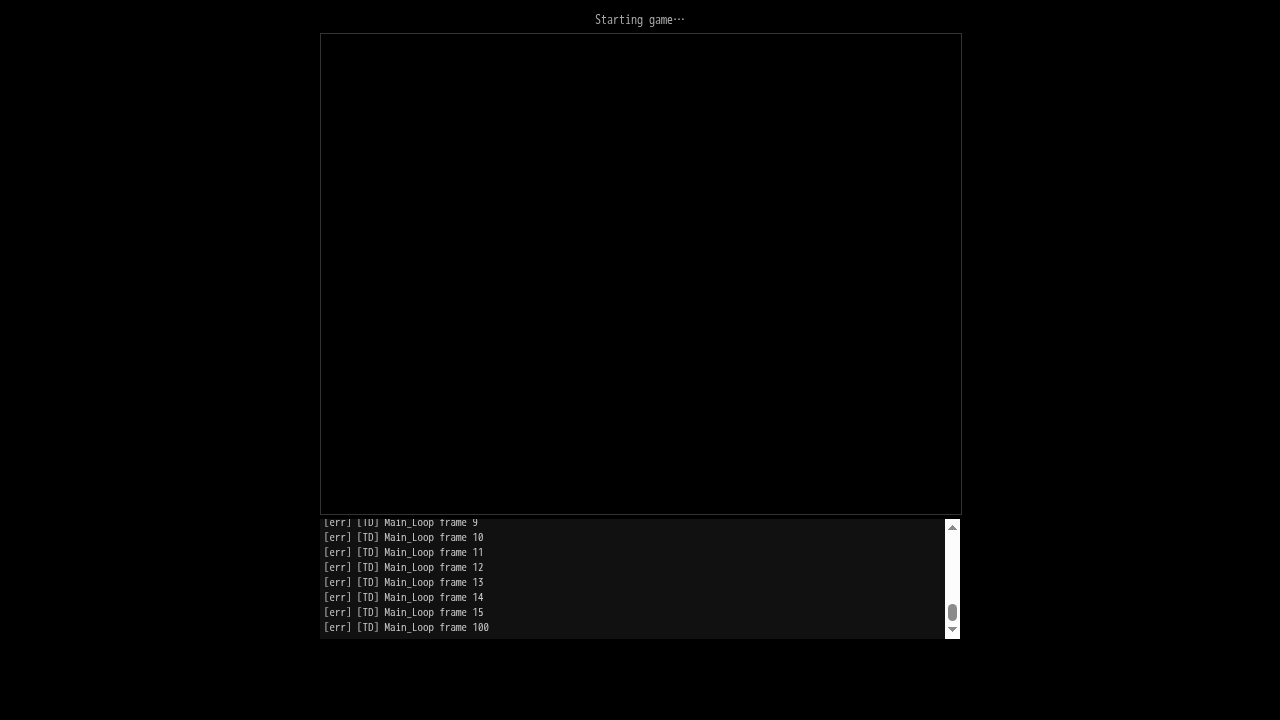
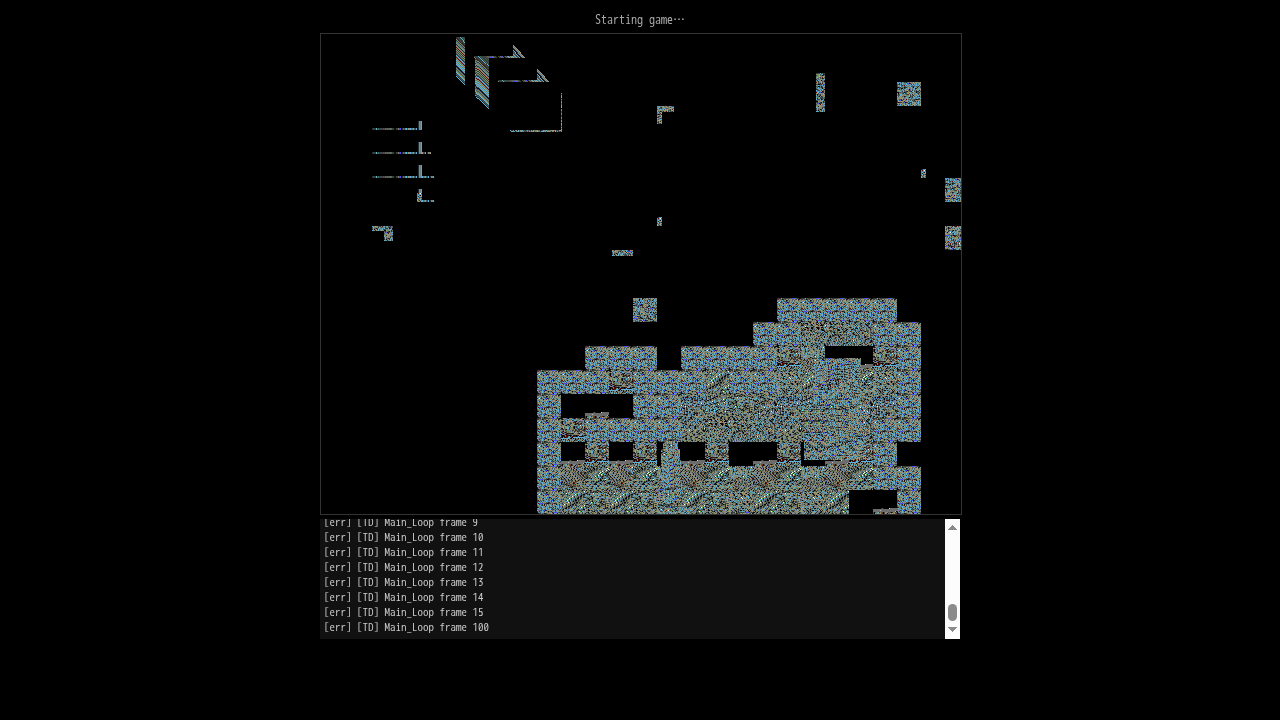
TIM-419: implement Buffer_Draw_Stamp/Clip + fix palette for TD terrain rendering
Three bugs causing black terrain canvas in TD WASM build:

1. Buffer_Draw_Stamp and Buffer_Draw_Stamp_Clip were empty no-op stubs.
   Implemented using IControl_Type struct member access (not hardcoded byte
   offsets) so LP64 / wasm32 struct layout differences are handled by the
   compiler automatically. IControl_Type::Icons is patched to a real pointer
   by Load_Icon_Set; TransFlag is an offset within the icondata block.

2. Clip parameter interpretation: WindowList WINDOWX/WINDOWWIDTH are in
   8-pixel byte units (1 unit = 8 pixels), not raw pixel coordinates.
   Buffer_Draw_Stamp_Clip now converts: clip_x0 = min_x<<3,
   clip_x1 = (min_x+max_x)<<3 before the per-pixel comparison.
   Without this, max_x=80 from WINDOWWIDTH clipped all tiles beyond pixel 80.

3. Set_Palette was not updating TD_SDL_Palette used by Wait_Vert_Blank for
   indexed→ARGB conversion. Extracted Update_SDL_Palette() helper; Set_Palette,
   Fade_Palette_To, and Set_DD_Palette all call it now. Previously the SDL
   palette stayed all-black even after the game loaded its colour table.

Verified: all 5 td-gameplay.spec.ts tests pass; test 4 reports "Canvas has
non-black pixels at frame 100" (previously always black). Screenshot confirms
connected terrain tiles rendering in SCG01EA.

diff --git a/linux/td-win32-stubs.cpp b/linux/td-win32-stubs.cpp
@@ -712,19 +712,8 @@ int IRandom(int minval, int maxval)
 
 extern "C" unsigned char CurrentPalette[768] = {};
 
-void Set_Palette(void *palette)   { if (palette) std::memcpy(CurrentPalette, palette, 768); }
-
-void Fade_Palette_To(void *palette1, unsigned int /*delay*/, void (*callback)())
+static void Update_SDL_Palette(const void *palette)
 {
-    if (palette1) std::memcpy(CurrentPalette, palette1, 768);
-    if (callback) callback();
-}
-
-// TIM-383: update both the engine CurrentPalette and the SDL colour table
-// used by Wait_Vert_Blank for indexed→ARGB conversion.
-extern "C" void Set_DD_Palette(void *palette)
-{
-    Set_Palette(palette);  // keeps CurrentPalette in sync
 #ifndef _MSC_VER
     if (!palette) return;
     const unsigned char* p = static_cast<const unsigned char*>(palette);
@@ -735,6 +724,26 @@ extern "C" void Set_DD_Palette(void *palette)
         TD_SDL_Palette[i].a = 255;
     }
 #endif
+}
+
+void Set_Palette(void *palette)
+{
+    if (!palette) return;
+    std::memcpy(CurrentPalette, palette, 768);
+    Update_SDL_Palette(palette);
+}
+
+void Fade_Palette_To(void *palette1, unsigned int /*delay*/, void (*callback)())
+{
+    if (palette1) { std::memcpy(CurrentPalette, palette1, 768); Update_SDL_Palette(palette1); }
+    if (callback) callback();
+}
+
+// TIM-383: update both the engine CurrentPalette and the SDL colour table
+// used by Wait_Vert_Blank for indexed→ARGB conversion.
+extern "C" void Set_DD_Palette(void *palette)
+{
+    Set_Palette(palette);  // also calls Update_SDL_Palette via Set_Palette
 }
 
 // =========================================================================
@@ -912,8 +921,78 @@ BOOL Linear_Blit_To_Linear(void *thisptr, void *dest,
 
 BOOL Linear_Scale_To_Linear(void *, void *, int, int, int, int, int, int, int, int, BOOL, char *) { return FALSE; }
 long Buffer_To_Page(int, int, int, int, void *, void *) { return 0; }
-void Buffer_Draw_Stamp(void const *, void const *, int, int, int, void const *) {}
-void Buffer_Draw_Stamp_Clip(void const *, void const *, int, int, int, void const *, int, int, int, int) {}
+// TIM-419: terrain tile blitting for TD WASM/Linux.
+// IControl_Type::Icons is a real pointer (patched by Load_Icon_Set); TransFlag is an
+// offset into the icondata block. Using struct member access rather than hardcoded byte
+// offsets so LP64 / wasm32 struct layout is handled by the compiler automatically.
+void Buffer_Draw_Stamp(void const *this_object, void const *icondata, int icon,
+                       int x_pixel, int y_pixel, void const *remap)
+{
+    if (!icondata) return;
+    IControl_Type const *ic = (IControl_Type const *)icondata;
+    int icon_w = ic->Width, icon_h = ic->Height;
+    if (icon_w <= 0 || icon_h <= 0 || !ic->Icons) return;
+    int icon_sz = icon_w * icon_h;
+    unsigned char const *icon_src = ic->Icons + icon * icon_sz;
+    unsigned char tf = ic->TransFlag ?
+        ((unsigned char const *)icondata)[ic->TransFlag + icon] : 0;
+    GraphicViewPortClass *vp = (GraphicViewPortClass*)this_object;
+    if (!vp) return;
+    int vw = vp->Get_Width(), vh = vp->Get_Height();
+    int stride = vw + vp->Get_XAdd();
+    unsigned char *buf = (unsigned char*)vp->Get_Offset();
+    for (int row = 0; row < icon_h; row++) {
+        int py = y_pixel + row;
+        if (py < 0 || py >= vh) continue;
+        for (int col = 0; col < icon_w; col++) {
+            int px = x_pixel + col;
+            if (px < 0 || px >= vw) continue;
+            unsigned char pixel = icon_src[row * icon_w + col];
+            if (remap) pixel = ((unsigned char const *)remap)[pixel];
+            if (!tf || pixel) buf[py * stride + px] = pixel;
+        }
+    }
+}
+
+void Buffer_Draw_Stamp_Clip(void const *this_object, void const *icondata, int icon,
+                             int x_pixel, int y_pixel, void const *remap,
+                             int min_x, int min_y, int max_x, int max_y)
+{
+    if (!icondata) return;
+    IControl_Type const *ic = (IControl_Type const *)icondata;
+    int icon_w = ic->Width, icon_h = ic->Height;
+    if (icon_w <= 0 || icon_h <= 0 || !ic->Icons) return;
+    int icon_sz = icon_w * icon_h;
+    unsigned char const *icon_src = ic->Icons + icon * icon_sz;
+    unsigned char tf = ic->TransFlag ?
+        ((unsigned char const *)icondata)[ic->TransFlag + icon] : 0;
+    GraphicViewPortClass *vp = (GraphicViewPortClass*)this_object;
+    if (!vp) return;
+    int vw = vp->Get_Width(), vh = vp->Get_Height();
+    int stride = vw + vp->Get_XAdd();
+    unsigned char *buf = (unsigned char*)vp->Get_Offset();
+    // WindowList WINDOWX/WINDOWWIDTH are in 8-pixel byte units; WINDOWY/WINDOWHEIGHT
+    // are in pixels. Convert to pixel clip bounds: [x0,x1) × [y0,y1).
+    int clip_x0 = min_x << 3;
+    int clip_x1 = (min_x + max_x) << 3;
+    int clip_y0 = min_y;
+    int clip_y1 = min_y + max_y;
+    if (clip_x0 < 0)  clip_x0 = 0;
+    if (clip_y0 < 0)  clip_y0 = 0;
+    if (clip_x1 > vw) clip_x1 = vw;
+    if (clip_y1 > vh) clip_y1 = vh;
+    for (int row = 0; row < icon_h; row++) {
+        int py = y_pixel + row;
+        if (py < clip_y0 || py >= clip_y1) continue;
+        for (int col = 0; col < icon_w; col++) {
+            int px = x_pixel + col;
+            if (px < clip_x0 || px >= clip_x1) continue;
+            unsigned char pixel = icon_src[row * icon_w + col];
+            if (remap) pixel = ((unsigned char const *)remap)[pixel];
+            if (!tf || pixel) buf[py * stride + px] = pixel;
+        }
+    }
+}
 unsigned long LCW_Uncompress(void *, void *, unsigned long) { return 0; }
 unsigned int Apply_XOR_Delta(char *, char *) { return 0; }
 void Apply_XOR_Delta_To_Page_Or_Viewport(void *, void *, int, int, int) {}